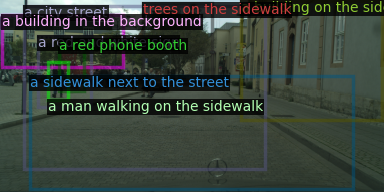
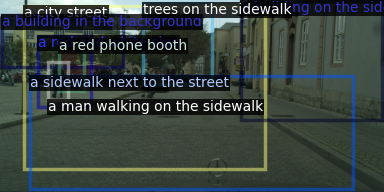
update_GRIT_via_GPT

Changed region(s): [[0.0, 0.0, 1.0, 1.0]]

diff --git a/generate_grit.py b/generate_grit.py
@@ -1,0 +1,123 @@
+'''
+@TranRick 2023/07/15
+This code use to Generate the Visual Instruction dataset
+Section 1 : Taking the GRIT Model to generate the Dense Captioning
+Section 2 : Instruction GPT --> Generate the Abstract Visual Instruction
+
+'''
+
+
+from vision_language_model.GRiT.dense_caption_raw import image_caption_api
+import os
+import sys
+import torch 
+from tenacity import (
+    retry,
+    stop_after_attempt,
+    wait_random_exponential,
+)  
+from llm_gpt import set_openai_key
+import openai
+from torchvision import transforms
+from utils import CityscapesSegmentation
+sys.path.append("/data/rick/autonomous_instruction_dataengine/Autonomous_Driving_Visual_Instruction_DataEngine/vision_language_model/")
+
+#***************  Section 1 GRIT Model to Generate Dense Captioning *****************#
+device = "cuda" if torch.cuda.is_available() else "cpu"
+
+class DenseCaptioning():
+    def __init__(self, device):
+        self.device = device
+
+    def initialize_model(self):
+        pass
+    
+    def image_dense_caption(self, image_src,img_size=384, save_img_path=None, image_name="test.png", save_image=True):
+        dense_caption, _, visualized_output, img_shape = image_caption_api(image_src, self.device,image_size=img_size)
+        print('\033[1;35m' + '*' * 100 + '\033[0m')
+        print("Step2, Dense Caption:\n")
+        print(dense_caption)
+        print('\033[1;35m' + '*' * 100 + '\033[0m')
+        if save_image: 
+            if not os.path.exists(save_img_path):
+                    os.mkdir(save_img_path)
+            out_filename = os.path.join(save_img_path, image_name)
+            visualized_output.save(out_filename)
+        return dense_caption, visualized_output, img_shape
+
+
+
+#***************  Section 2 Instruction GPT --> Generate the Abstract Visual Instruction *****************#
+set_openai_key() ## Remember to "export OPENAI_API_KEY=yourkey" in the terminal
+# Valid of Select GPT Model
+VALID_CHATGPT_MODELS = ['gpt-4', "gpt-35-turbo"]
+
+@retry(wait=wait_random_exponential(min=1, max=60), stop=stop_after_attempt(10))
+def call_gpt(chatgpt_messages, max_tokens=1024, model="gpt-35-turbo"):
+    response = openai.ChatCompletion.create(engine=model, messages=chatgpt_messages,
+    temperature=0.7,
+    max_tokens=max_tokens,
+    top_p=0.95,
+    frequency_penalty=1.2,
+    presence_penalty=0,
+    stop=None)
+    reply = response['choices'][0]['message']['content']
+    total_tokens = response['usage']['total_tokens']
+    return reply, total_tokens
+
+def main(image_path, GPT_model, device, save_path): 
+    
+    ## Generate Dense Captioning Visual Information
+    dense_caption= DenseCaptioning(device)
+    name_start = str(image_path).find("/Cityscapes/")
+    image_path_ = image_path[name_start-1:]
+    dense_caption, _, image_shape= dense_caption.image_dense_caption(image_path,img_size=384, save_img_path=save_path, image_name="test.png", save_image=True)
+    print("this is the dense caption", dense_caption)
+    print("this is the image shape", image_shape)
+
+
+    # Generate the Visual Instruction   
+    if GPT_model == 'chatgpt':
+        GPT_model = 'gpt-35-turbo'
+    elif 'gpt4' in GPT_model:
+        GPT_model = 'gpt-4'
+#     visual_abstract_instruction_prompt=f"Imagine you are a blind but intelligent image captioner, image reasoning understanding who is only given the bounding box and description of each object in a scene.\ 
+# Note the provided positions are the object left-top corner coordinates and object sizes image shape is {image_shape}.\ 
+# Write the visual description this scene using the relative positions and sizes of objects as follow :\"
+
+    messages_1=[
+    {"role": "system", "content": f"Imagine yourself as an intelligent image captioner possessing the unique ability to comprehend object relationships and image reasoning, despite lacking sight. Your task is to describe a scene by utilizing the bounding box and description of each object. Keep in mind that the provided positions indicate the left-top corner coordinates of the objects, and the image has a shape of {image_shape}."},
+    {"role": "user", "content": f"Using the relative positions and sizes of the objects provided below, \n{(dense_caption)} please craft a visual description of the scene:"},
+    ]
+    messages_2=[
+    {"role": "system", "content": f"Envision yourself as a highly intelligent in visual perception who excels in understanding object relationships and visual reasoning, even without the sense of sight. Your task is to describe a scene solely based on the bounding box and description of each object. Please note that the provided positions indicate the left-top corner coordinates of the objects, and the image has a shape of {image_shape}."},
+    {"role": "user", "content": f"Utilizing the relative positions and sizes of the objects provided as follow: {dense_caption}, kindly compose a visual description, deep scene understanding, visual reasoning and others aspects to extract rich visual information for Driving objectives:\n"},
+    ]
+
+    messages_3=[
+    {"role": "system", "content": f"Picture yourself as a highly perceptive image captioner with a profound understanding of object relationships and image reasoning, despite lacking the sense of sight. Your task is to describe a scene based solely on the bounding box and description of each object. Please note that the provided positions represent the object's left-top corner coordinates, and the image has a shape of {image_shape}."},
+    {"role": "user", "content": f"Please describe the scene using the relative positions and sizes of the objects provided below:\n{dense_caption}"},
+    ]
+
+
+    messages_4=[
+    {"role": "system", "content": f"Imagine you possess the remarkable ability to comprehend object relationships and perception reasoning capability, despite being blind. Your task is to describe a scene by utilizing the bounding box and description of each object. Take note that the provided positions correspond to the left-top corner coordinates of the objects, and the image has a shape of {image_shape}."},
+    {"role": "user", "content": f"Based on the objects' relative positions and sizes provided as follow: {dense_caption}, please compose a visual description, deep scene understanding, visual reasoning and others aspects to extract rich visual information without providing coordinate in detailed for Driving objective:\n"},
+    ]
+
+
+    ## Current Testing Recommend messages_2 and Messages_4 for Information With Coordinate and Without Coordinate Visual abstract information
+    ## If using Coordinate information, try to make sure this Image Shape will be the Final Input Image Shape for the Driving Model
+    visual_description=call_gpt(chatgpt_messages=messages_2,  max_tokens=512,model=GPT_model)
+    
+    return visual_description
+
+if __name__ == '__main__':
+
+    image_path= "/data1/dataset/Cityscapes/leftImg8bit/train/jena/jena_000078_000019_leftImg8bit.png"
+    save_path = "/data/rick/autonomous_instruction_dataengine/Autonomous_Driving_Visual_Instruction_DataEngine/cityscape_test_imgs/grit_model_test/"
+    GPT_model = 'gpt-4'
+    img_name="Dense_caption_T_06_jena_000078_000019_leftImg8bit.png"
+    #
+    visual_description=main(image_path, GPT_model, device, save_path)
+    print(visual_description)

diff --git a/vision_language_model/grit_model.py b/vision_language_model/grit_model.py
@@ -7,11 +7,11 @@ GRIT --> Image Dense Caption
 '''
 
 import os
+
 from GRiT.dense_caption_raw import image_caption_api
 import sys 
 from detectron2.utils.logger import setup_logger
-
-
+sys.path.append( '/data/rick/autonomous_instruction_dataengine/Autonomous_Driving_Visual_Instruction_DataEngine/vision_language_model/GRiT/')
 class DenseCaptioning():
     def __init__(self, device):
         self.device = device
@@ -19,19 +19,20 @@ class DenseCaptioning():
     def initialize_model(self):
         pass
     
-    def image_dense_caption(self, image_src, save_img_path=None, image_name="test.png"):
-        dense_caption, _, visualized_output = image_caption_api(image_src, self.device)
+    def image_dense_caption(self, image_src,img_size=384, save_img_path=None, image_name="test.png", save_image=True):
+        dense_caption, _, visualized_output, img_shape = image_caption_api(image_src, self.device,image_size=img_size)
         print('\033[1;35m' + '*' * 100 + '\033[0m')
         print("Step2, Dense Caption:\n")
         print(dense_caption)
         print('\033[1;35m' + '*' * 100 + '\033[0m')
-        if not os.path.exists(save_img_path):
-                os.mkdir(save_img_path)
-        out_filename = os.path.join(save_img_path, image_name)
-        visualized_output.save(out_filename)
-        return dense_caption, visualized_output
+        if save_image: 
+            if not os.path.exists(save_img_path):
+                    os.mkdir(save_img_path)
+            out_filename = os.path.join(save_img_path, image_name)
+            visualized_output.save(out_filename)
+        return dense_caption, visualized_output, img_shape
 
-    
+
 
 ## Unit Test 
 if __name__ == '__main__':
@@ -41,5 +42,5 @@ if __name__ == '__main__':
     device = "cuda:1"
     img_name="Dense_caption_T_06_jena_000078_000019_leftImg8bit.png"
     dense_caption = DenseCaptioning( device)
-    dense_caption, _= dense_caption.image_dense_caption(image_path, save_img_path=save_img_path, image_name=img_name)
+    dense_caption, _, image_shape= dense_caption.image_dense_caption(image_path, save_img_path=save_img_path, image_name=img_name)
     print(dense_caption)

diff --git a/generate_data.py b/generate_data.py
@@ -163,7 +163,6 @@ def visual_instruction_input_response(blip, image, GPT_model, n_rounds=10, max_g
     
     return results
 
-
 def generate(blip, image, GPT_model, n_rounds=10, n_blip2_context=-1, print_mode='chat', BLIP_max_length_token_output=100, BLIP_llm_decoding_strategy='nucleus'):
     """
     Caption images with a set of blip2 models
@@ -195,7 +194,6 @@ def generate(blip, image, GPT_model, n_rounds=10, n_blip2_context=-1, print_mode
                                         )
 
     return visual_instruction_data
-
 
 def generate_multiview(blip, images, GPT_model, n_rounds=10, n_blip2_context=-1, print_mode='chat', BLIP_max_length_token_output=100, BLIP_llm_decoding_strategy='nucleus'):
     '''
